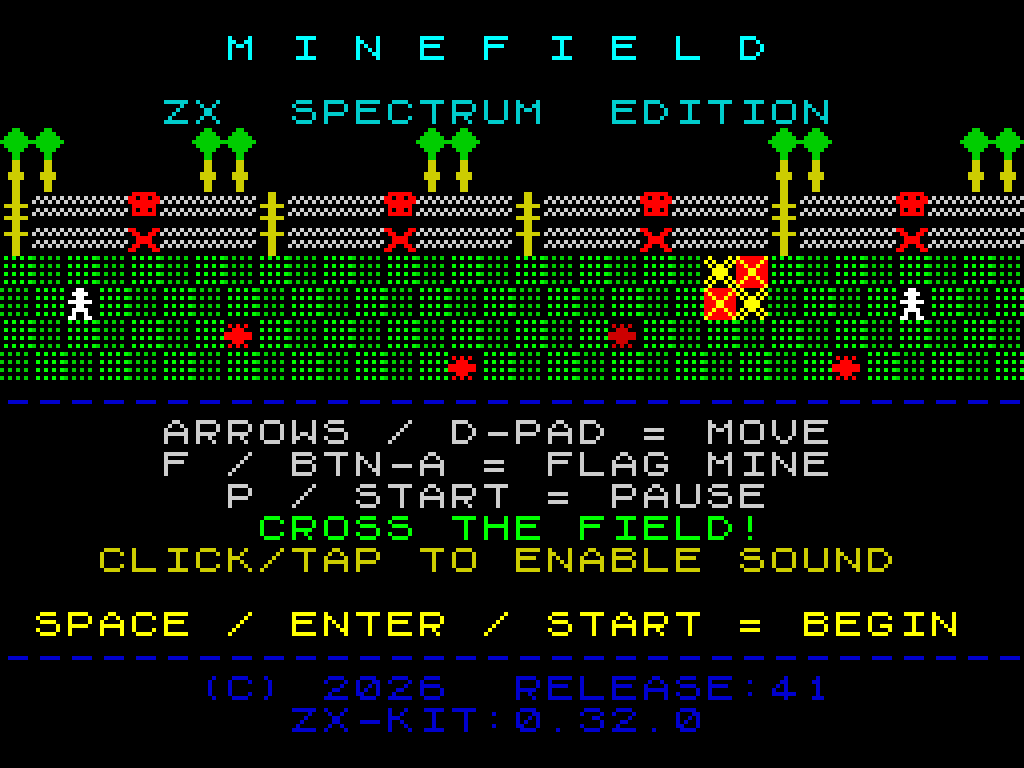
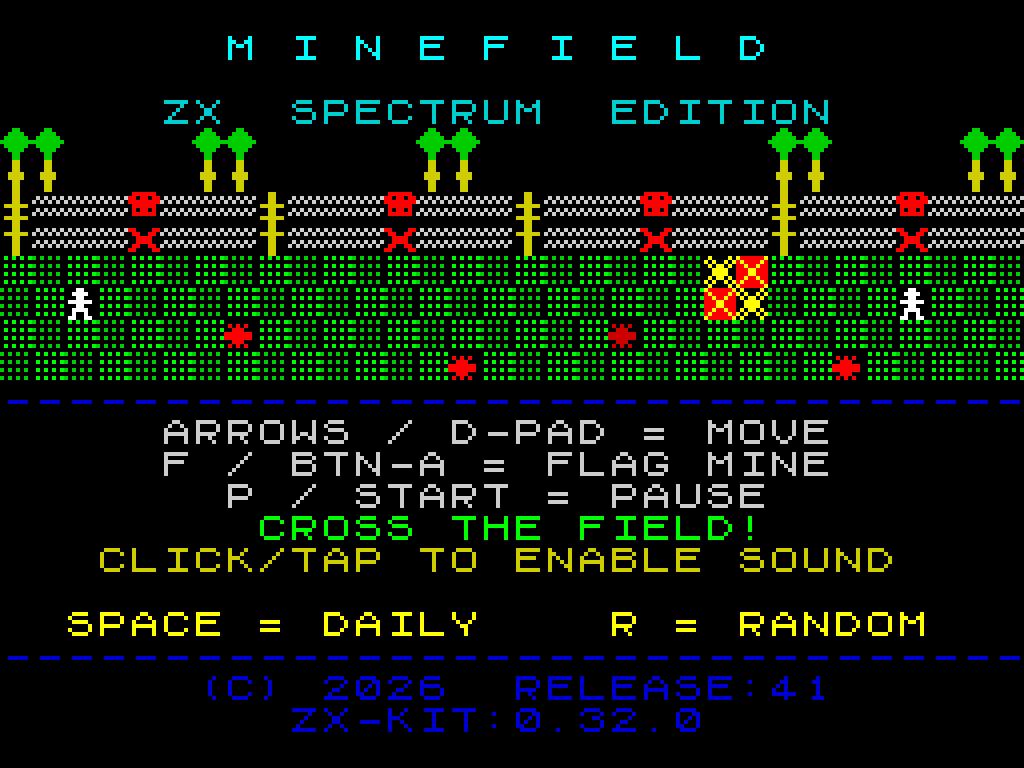
feat(mode): explicit daily vs random with auto-resume
Random runs were a hidden in-game toggle (R) that could silently resume from a
save and looked identical to a daily run. Make the choice explicit and safe:

- title: SPACE = DAILY, R = RANDOM (the only place to pick); R does nothing
in-game anymore (the key is drained so it can't leak into the next title)
- HUD: a steady magenta RND + blinking red NO SCORE whenever the run is random
- auto-resume: an in-progress save loads straight into the game, skipping the
title; a run is auto-saved from level 1 so it's always resumable
- single source of truth: dropSeedBase===null is "random" everywhere (score
guard, per-level seed, HUD); the separate randomMode flag is gone
- strings(+sk): STR_RANDOM_TAG, STR_NO_SCORE, STR_START_HINT
- docs/img/intro.png: regenerated title with the two doors

diff --git a/src/main.ts b/src/main.ts
@@ -13,7 +13,7 @@ import { saveProfile, setStateGetter } from './save.ts'
 type AppPhase = 'intro' | 'ingame' | 'hiscore'
 
 let appPhase: AppPhase = 'intro'
-let state: GameState = createGame(0)
+let state: GameState = createGame(0, 0, dailySeed(0))  // placeholder; replaced on resume/start
 setStateGetter(() => state)
 let lastTime = 0
 // Capture mode (dev-only): when true the loop stops ticking/rendering so a
@@ -22,10 +22,8 @@ let frozen = false
 const blinker = createBlinker(BLINK_INTERVAL_MS)
 let audioReady = false
 let prevGamePhase: GamePhase = 'playing'
-// Daily seed is the default (fair, comparable scores). The R key flips this on
-// for the rest of the run → random non-daily fields for dev + replayability.
-// A fresh run from the intro always resets back to daily.
-let randomMode = false
+// A run's daily/random identity is the single source of truth on the state:
+// state.dropSeedBase === null ⇔ random. No separate flag to drift out of sync.
 
 // Name entry state for hiscore phase
 let hiName: string[] = []
@@ -34,8 +32,9 @@ const letterQueue: string[] = []
 const PAD_LETTERS = 'ABCDEFGHIJKLMNOPQRSTUVWXYZ '
 let padLetterIdx = 0
 
-// Intro: only Space / Enter / S start the game
+// Intro: Space / Enter / S (or gamepad Start) begin the daily run; R begins a random run.
 let startKeyPending = false
+let startRandomPending = false
 
 const VOL_BAR_W = 10 * CELL  // 10 chars × 8 px
 const VOL_BAR_X = (CANVAS_W - VOL_BAR_W) / 2
@@ -105,19 +104,19 @@ function gameLoop(timestamp: number): void {
       introPageTimer = INTRO_PAGE_MS
     }
     tickMovement(dt)  // keep gamepad polled
-    if (consumePause()) startKeyPending = true  // gamepad Start button starts game
-    if (startKeyPending) {
+    if (consumePause()) startKeyPending = true         // gamepad Start = daily
+    if (consumeRandomMap()) startRandomPending = true  // R = random (title only)
+    if (startKeyPending || startRandomPending) {
+      const random = startRandomPending
       startKeyPending = false
+      startRandomPending = false
       consumeAnyKey()   // drain so no stale key reaches ingame
       initAudioOnce()
       stopAmbientSounds()
-      randomMode = false   // fresh run = today's daily field
-      state = createGame(0, 0, dailySeed(0))   // daily field — same for everyone today
-      readSaveLatest(saveProfile)   // mutates state in-place if a save exists
-      // A resumed save keeps its own seed: dropSeedBase===null marks a random
-      // (R-rerolled) run, which must stay random so it can't launder into a
-      // recorded score on the daily leaderboard.
-      randomMode = state.dropSeedBase === null
+      // No save can exist at the title (auto-resume skips it when one does), so
+      // this is always a fresh run. random ⇒ dropSeedBase null ⇒ off the board.
+      state = createGame(0, 0, random ? undefined : dailySeed(0))
+      writeSave(saveProfile, 'auto')   // make the run resumable from level 1
       introPage = 0
       introPageTimer = INTRO_PAGE_MS
       resetInput(); resetUI()
@@ -175,15 +174,9 @@ function gameLoop(timestamp: number): void {
   state.blink = blink
 
   if (state.phase === 'playing') {
-    // R — reroll the current level with a random (non-daily) seed; rest of the
-    // run stays random. Works in any runState; lands back in idle (re-scout).
-    if (consumeRandomMap()) {
-      randomMode = true
-      stopAmbientSounds()
-      state = createGame(state.level, state.score, undefined, state.inventory)   // no seed → fresh random field; keep backpack
-      resetInput(); resetUI()
-      flashBorder(C.B_MAGENTA, 2, 80)
-    }
+    // R does nothing in-game — random is chosen only on the title. Still drain
+    // the key so an in-game press can't linger and trigger a random start later.
+    consumeRandomMap()
 
     if (state.runState === 'idle') {
       // Debug available only in idle — scout before starting
@@ -249,10 +242,11 @@ function gameLoop(timestamp: number): void {
     if (state.levelCompleteTimer <= 0) {
       const prevScore = state.score
       const prevInventory = state.inventory
+      const wasRandom = state.dropSeedBase === null
       stopAmbientSounds()
       // random run stays random across levels; otherwise the daily field per level.
       // Backpack carries over (it's the player's, not the field's).
-      state = createGame(state.level + 1, prevScore, randomMode ? undefined : dailySeed(state.level + 1), prevInventory)
+      state = createGame(state.level + 1, prevScore, wasRandom ? undefined : dailySeed(state.level + 1), prevInventory)
       writeSave(saveProfile, 'auto')   // checkpoint at the start of every level
     }
 
@@ -266,9 +260,9 @@ function gameLoop(timestamp: number): void {
       // No save scumming — saves are cleared on game over (Spectrum philosophy)
       deleteSave(saveProfile, 'auto')
       deleteSave(saveProfile, 'manual')
-      // Random (R-rerolled) runs never reach the leaderboard — otherwise you
-      // could reroll until an easy map, farm a score and "beat" the daily.
-      if (!randomMode && isHighScore(state.score)) {
+      // Random runs never reach the leaderboard — otherwise you could practise
+      // an easy map, farm a score and "beat" the daily. (dropSeedBase null = random.)
+      if (state.dropSeedBase !== null && isHighScore(state.score)) {
         enterHiScore()
       } else {
         appPhase = 'intro'
@@ -314,6 +308,11 @@ function main(): void {
       }
     }
   })
+
+  // Resume an in-progress save straight into the game, skipping the title; the
+  // run keeps its daily/random identity via dropSeedBase. Saves are cleared on
+  // game over, so this only fires for an unfinished run.
+  if (readSaveLatest(saveProfile).ok) appPhase = 'ingame'
 
   requestAnimationFrame(gameLoop)
 }

diff --git a/src/strings.sk.ts b/src/strings.sk.ts
@@ -31,6 +31,11 @@ export const STR_COMBO = (count: number) => `KOMBO:x${count}` // 8 znakov
 
 export const STR_LEVEL = (levelOneBased: number) => `LVL:${levelOneBased}`  // 6 znakov
 
+// Náhodná (R) hra: STR_RANDOM_TAG je stály, blikajúce STR_NO_SCORE varuje, že
+// beh nejde do rebríčka. Bez diakritiky (ZX ROM font).
+export const STR_RANDOM_TAG = 'NAH'                          // 3 znaky (náhodný)
+export const STR_NO_SCORE = 'BEZ SKORE'                      // 9 znakov
+
 // ── Status bar — dolný riadok ─────────────────────────────────────────────
 
 export const STR_MINES = (remaining: number) =>
@@ -92,7 +97,7 @@ export const STR_GOAL       = 'PREJDI POLE!'                // 12 znakov
 
 export const STR_AUDIO_HINT = 'KLIK/TAP PRE ZVUK'           // 17 znakov
 
-export const STR_START_HINT = 'SPACE / ENTER / START = HRA' // 27 znakov
+export const STR_START_HINT = 'SPACE = DENNY    R = NAHODNY' // 28 znakov
 
 export const STR_COPYRIGHT      = (build: string)   => `(C) 2026  VYDANIE:${build}`
 export const STR_ZXKIT_VERSION  = (version: string) => `ZX-KIT:${version}`

diff --git a/src/strings.ts b/src/strings.ts
@@ -48,6 +48,11 @@ export const STR_COMBO = (count: number) => `COMBO:x${count}`
 // Level display, right-aligned. 'LVL:99' = 6 chars.
 export const STR_LEVEL = (levelOneBased: number) => `LVL:${levelOneBased}`
 
+// Random (R-rerolled) run markers, top HUD row. STR_RANDOM_TAG is steady, the
+// blinking STR_NO_SCORE warns the run is off the leaderboard.
+export const STR_RANDOM_TAG = 'RND'
+export const STR_NO_SCORE = 'NO SCORE'
+
 // ── Status bar — bottom row ──────────────────────────────────────────────
 
 // Remaining undisarmed mines counter. 'MINES:999' = 9 chars.
@@ -132,7 +137,7 @@ export const STR_GOAL       = 'CROSS THE FIELD!'       // 16 chars
 export const STR_AUDIO_HINT = 'CLICK/TAP TO ENABLE SOUND'
 
 // "Press to start" banner — blinks. 29 chars.
-export const STR_START_HINT = 'SPACE / ENTER / START = BEGIN'
+export const STR_START_HINT = 'SPACE = DAILY    R = RANDOM'
 
 // Footer lines — copyright + zx-kit version. `(C) 2026  RELEASE:{x}` is
 // stretched to fit the right-aligned RELEASE tag without overflow at

diff --git a/src/renderer.ts b/src/renderer.ts
@@ -103,6 +103,15 @@ function renderStatusBar(ctx: CanvasRenderingContext2D, state: GameState): void 
   ctx.fillRect(0, STATUS_TOP, CANVAS_W, STATUS_ROWS * CELL)
   renderInventory(ctx, state)
 
+  // Random (R-rerolled) run flag on the top row — steady tag + blinking warning
+  // that this run never reaches the leaderboard. dropSeedBase===null ⇔ random.
+  if (state.dropSeedBase === null) {
+    const noScoreX = (COLS - L.STR_NO_SCORE.length) * CELL
+    const tagX = noScoreX - (L.STR_RANDOM_TAG.length + 1) * CELL
+    drawText(ctx, L.STR_RANDOM_TAG, tagX, STATUS_TOP, C.B_MAGENTA, C.BLACK)
+    if (state.blink) drawText(ctx, L.STR_NO_SCORE, noScoreX, STATUS_TOP, C.B_RED, C.BLACK)
+  }
+
   drawText(ctx, L.STR_SCORE(state.score), 0, STATUS_Y, C.B_WHITE, C.BLACK)
   if (state.runState === 'idle') {
     drawText(ctx, L.STR_IDLE, (COLS - L.STR_IDLE.length) * CELL, STATUS_Y, C.B_GREEN, C.BLACK)
